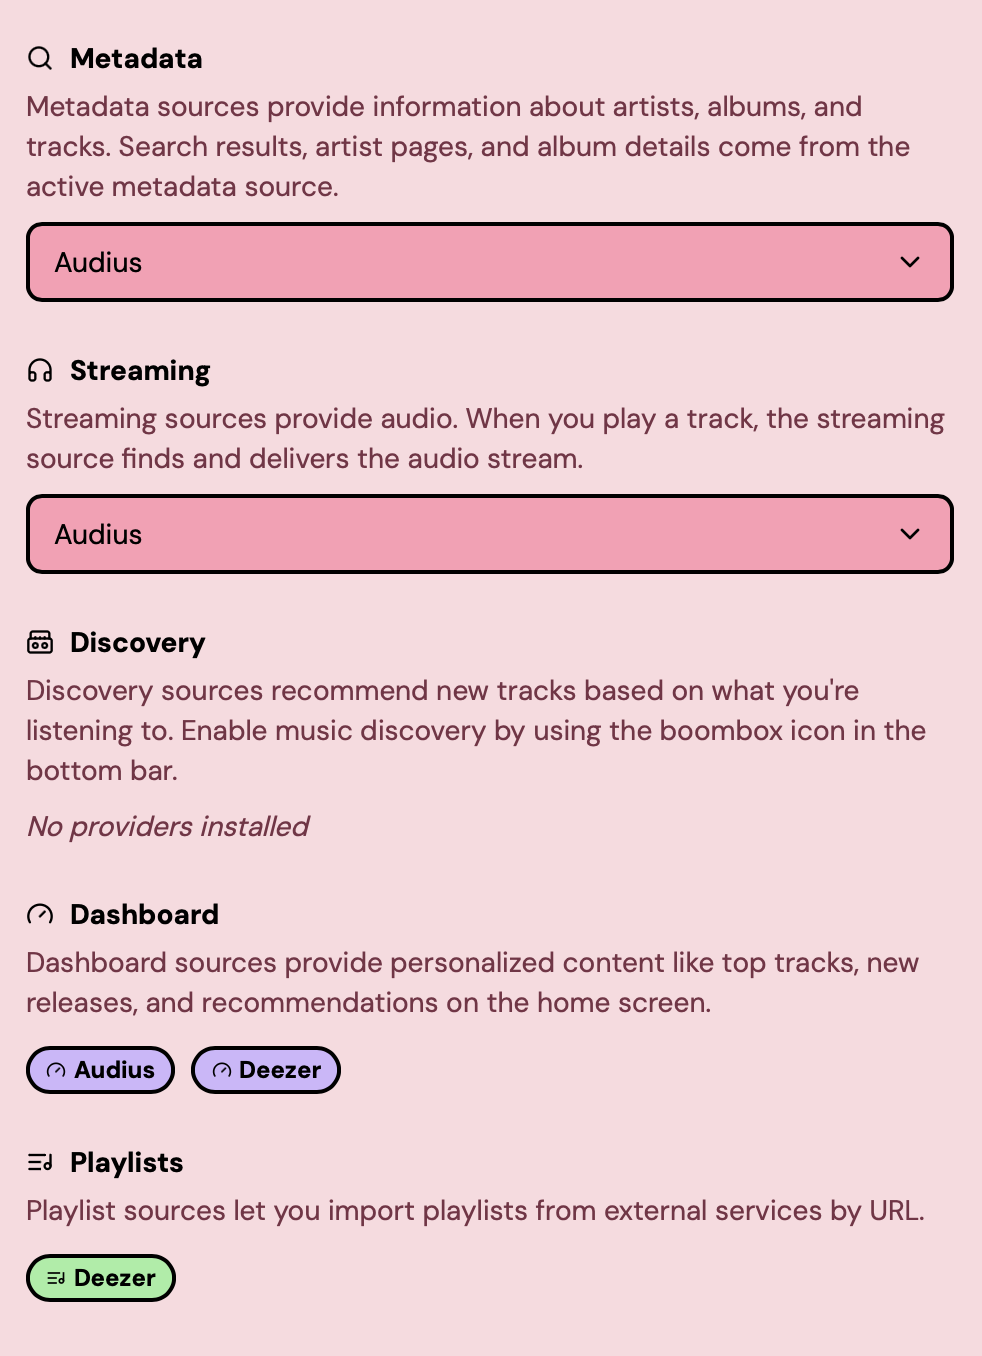
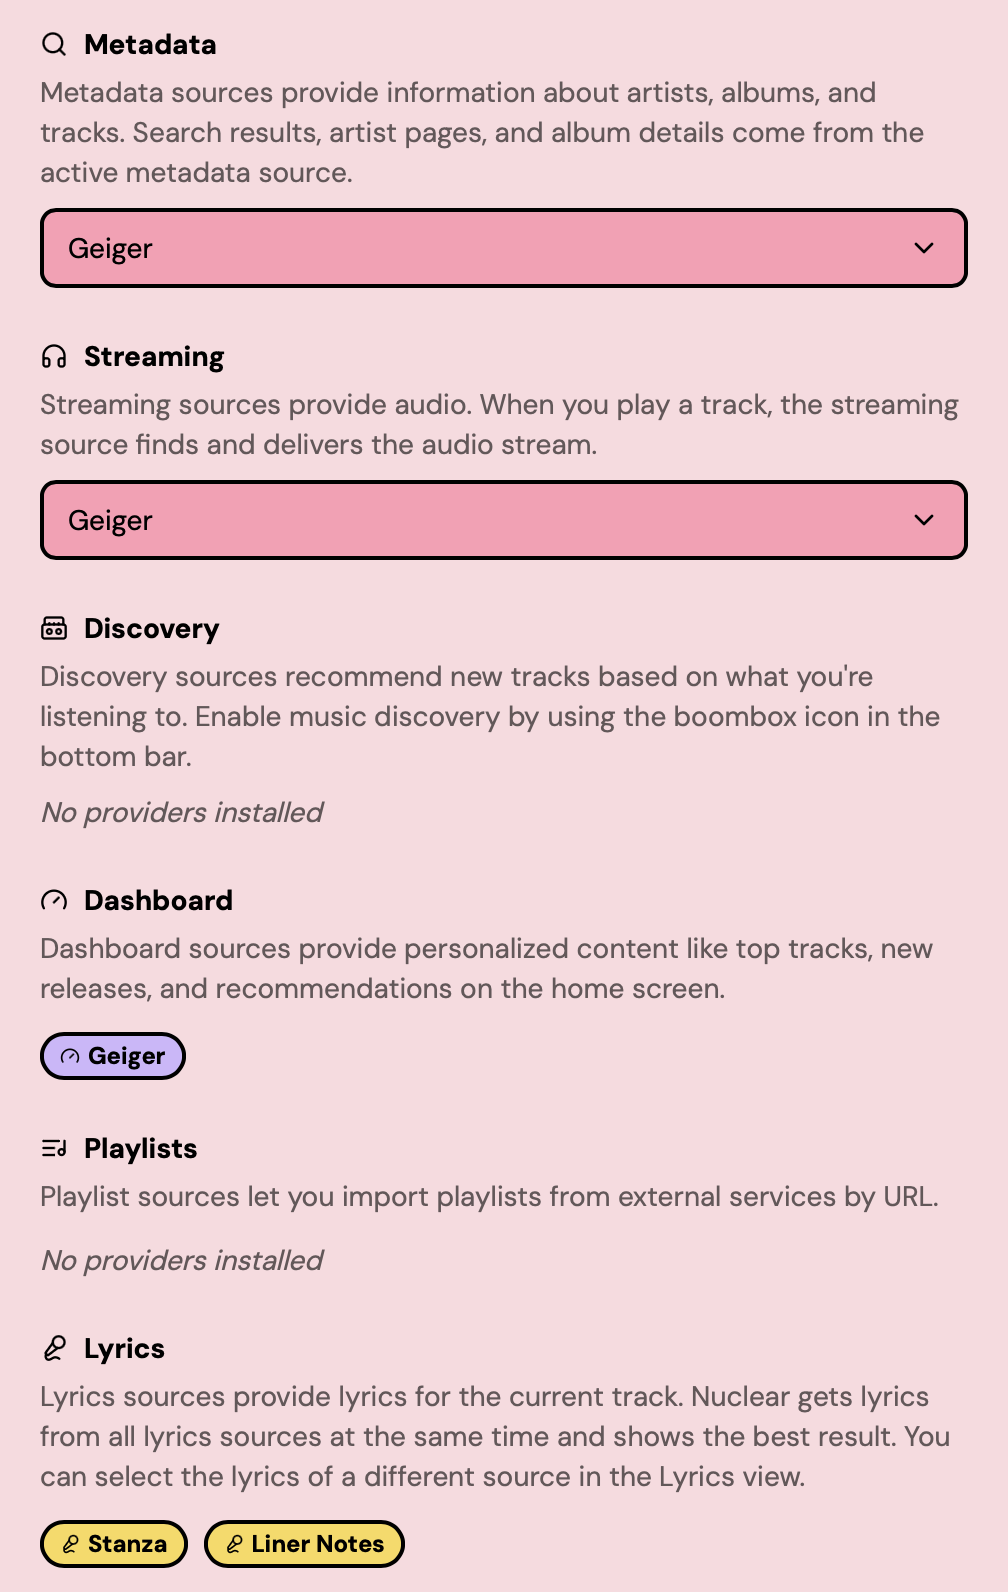
Lyrics screenshots

diff --git a/packages/docs/core-concepts/lyrics.md b/packages/docs/core-concepts/lyrics.md
@@ -10,6 +10,8 @@ To see lyrics, install at least one lyrics plugin from the plugin store, then cl
 
 The Lyrics view shows the lyrics of the current track. When the next track starts, the view loads the lyrics for that track.
 
+<figure><img src="../.gitbook/assets/lyrics.png" alt="The Lyrics view with word-synced lyrics. The current line is highlighted, and a bar fills under the word that the singer sings now."><figcaption><p>The Lyrics view with word-synced lyrics</p></figcaption></figure>
+
 ## Lyrics come from plugins
 
 To see lyrics in Nuclear, you will need to install at least one lyrics plugin. You can install lyrics plugins from the plugin store, like any other plugin. For more information about plugins and the plugin store, see [Plugins and providers](plugins-and-providers.md).
@@ -46,9 +48,13 @@ Instrumental means that the track has no lyrics. Nuclear shows the **Instrumenta
 
 The toolbar shows only the controls that apply to the lyrics on the screen. While Nuclear loads lyrics, the toolbar is empty. The toolbar is also empty when the view shows a message instead of lyrics.
 
+<figure><img src="../.gitbook/assets/lyrics-toolbar-controls.png" alt="The right side of the toolbar for synced lyrics: the Smaller lyrics and Larger lyrics buttons, the Auto-scroll switch, and the offset control" width="347"><figcaption><p>The toolbar controls for synced lyrics</p></figcaption></figure>
+
 ### Switch to a different source
 
 The source picker is on the left side of the toolbar. It shows the name of the plugin that supplied the lyrics on the screen. An icon next to each plugin name shows the type of its lyrics: **Word synced**, **Line synced**, or **Plain**. To see the name of the type, move the pointer over the icon.
+
+<figure><img src="../.gitbook/assets/lyrics-source-picker.png" alt="The open source picker with two lyrics plugins. An icon next to each name shows the type of its lyrics." width="248"><figcaption><p>The source picker</p></figcaption></figure>
 
 The source picker lists only the plugins that returned lyrics with text for the current track. To see the lyrics from a different plugin:
 
@@ -96,6 +102,8 @@ When no one sings for 5 seconds or more, Nuclear shows an instrumental break bet
 
 If the singer starts 5 seconds or more after the start of the track, Nuclear also shows a break before the first line.
 
+<figure><img src="../.gitbook/assets/lyrics-instrumental-break.png" alt="An instrumental break between two lines of synced lyrics. The first of the three dots is full, and the second dot is half full." width="750"><figcaption><p>An instrumental break</p></figcaption></figure>
+
 ### Follow the current line
 
 When auto-scroll is on, the view scrolls to the current line each time a new line starts. The view also scrolls to the current line when you enable auto-scroll.
@@ -111,6 +119,8 @@ Some plugins supply more than the text of the lyrics. Nuclear shows these additi
 - Furigana are the small reading aids for Japanese characters. They appear above their characters. Other reading aids, such as pinyin for Chinese, appear in the same position.
 - Translations and romanizations appear below the line, in smaller text.
 - Background vocals appear in parentheses after the line, in italics.
+
+<figure><img src="../.gitbook/assets/lyrics-furigana-translation.png" alt="Japanese lyrics with furigana above the characters, and a romanization and an English translation below each line" width="320"><figcaption><p>Furigana, a romanization, and a translation</p></figcaption></figure>
 
 ## When the view shows a message
 

diff --git a/README.md b/README.md
@@ -49,6 +49,8 @@ Nuclear comes with multiple built-in themes, with light and a dark modes:
 | Album page | Favorites |
 | ![Playlists](packages/docs/.gitbook/assets/playlists.png) | ![Playlist](packages/docs/.gitbook/assets/playlist-detail-view.png) |
 | Playlists | Playlist |
+| ![Synced lyrics](packages/docs/.gitbook/assets/lyrics.png) | ![Lyrics with furigana and translations](packages/docs/.gitbook/assets/lyrics-translations.png) |
+| Synced lyrics | Lyrics with furigana and translations |
 | ![Listening history](packages/docs/.gitbook/assets/history.png) | ![Listening stats](packages/docs/.gitbook/assets/history-stats.png) |
 | Listening history | Listening stats |
 | ![Stream sources](packages/docs/.gitbook/assets/stream-candidates.png) | ![Plugin store](packages/docs/.gitbook/assets/plugin-store.png) |
